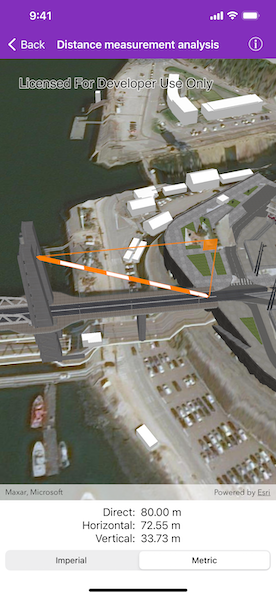
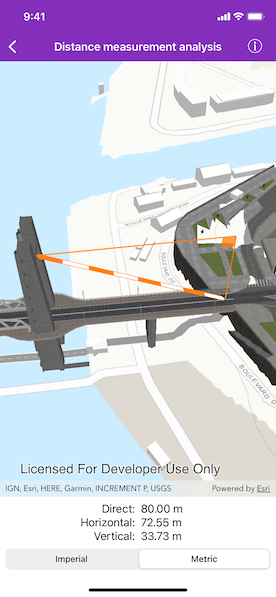
Update distance measurement analysis.

diff --git a/arcgis-ios-sdk-samples/Analysis/Distance measurement analysis/DistanceMeasurementAnalysisViewController.swift b/arcgis-ios-sdk-samples/Analysis/Distance measurement analysis/DistanceMeasurementAnalysisViewController.swift
@@ -31,7 +31,7 @@ class DistanceMeasurementAnalysisViewController: UIViewController, AGSGeoViewTou
     
     required init?(coder: NSCoder) {
         // Create the scene.
-        scene = AGSScene(basemap: .imagery())
+        scene = AGSScene(basemap: .topographic())
         
         /// The url of the Terrain 3D ArcGIS REST Service.
         let worldElevationServiceURL = URL(string: "https://elevation3d.arcgis.com/arcgis/rest/services/WorldElevation3D/Terrain3D/ImageServer")!
